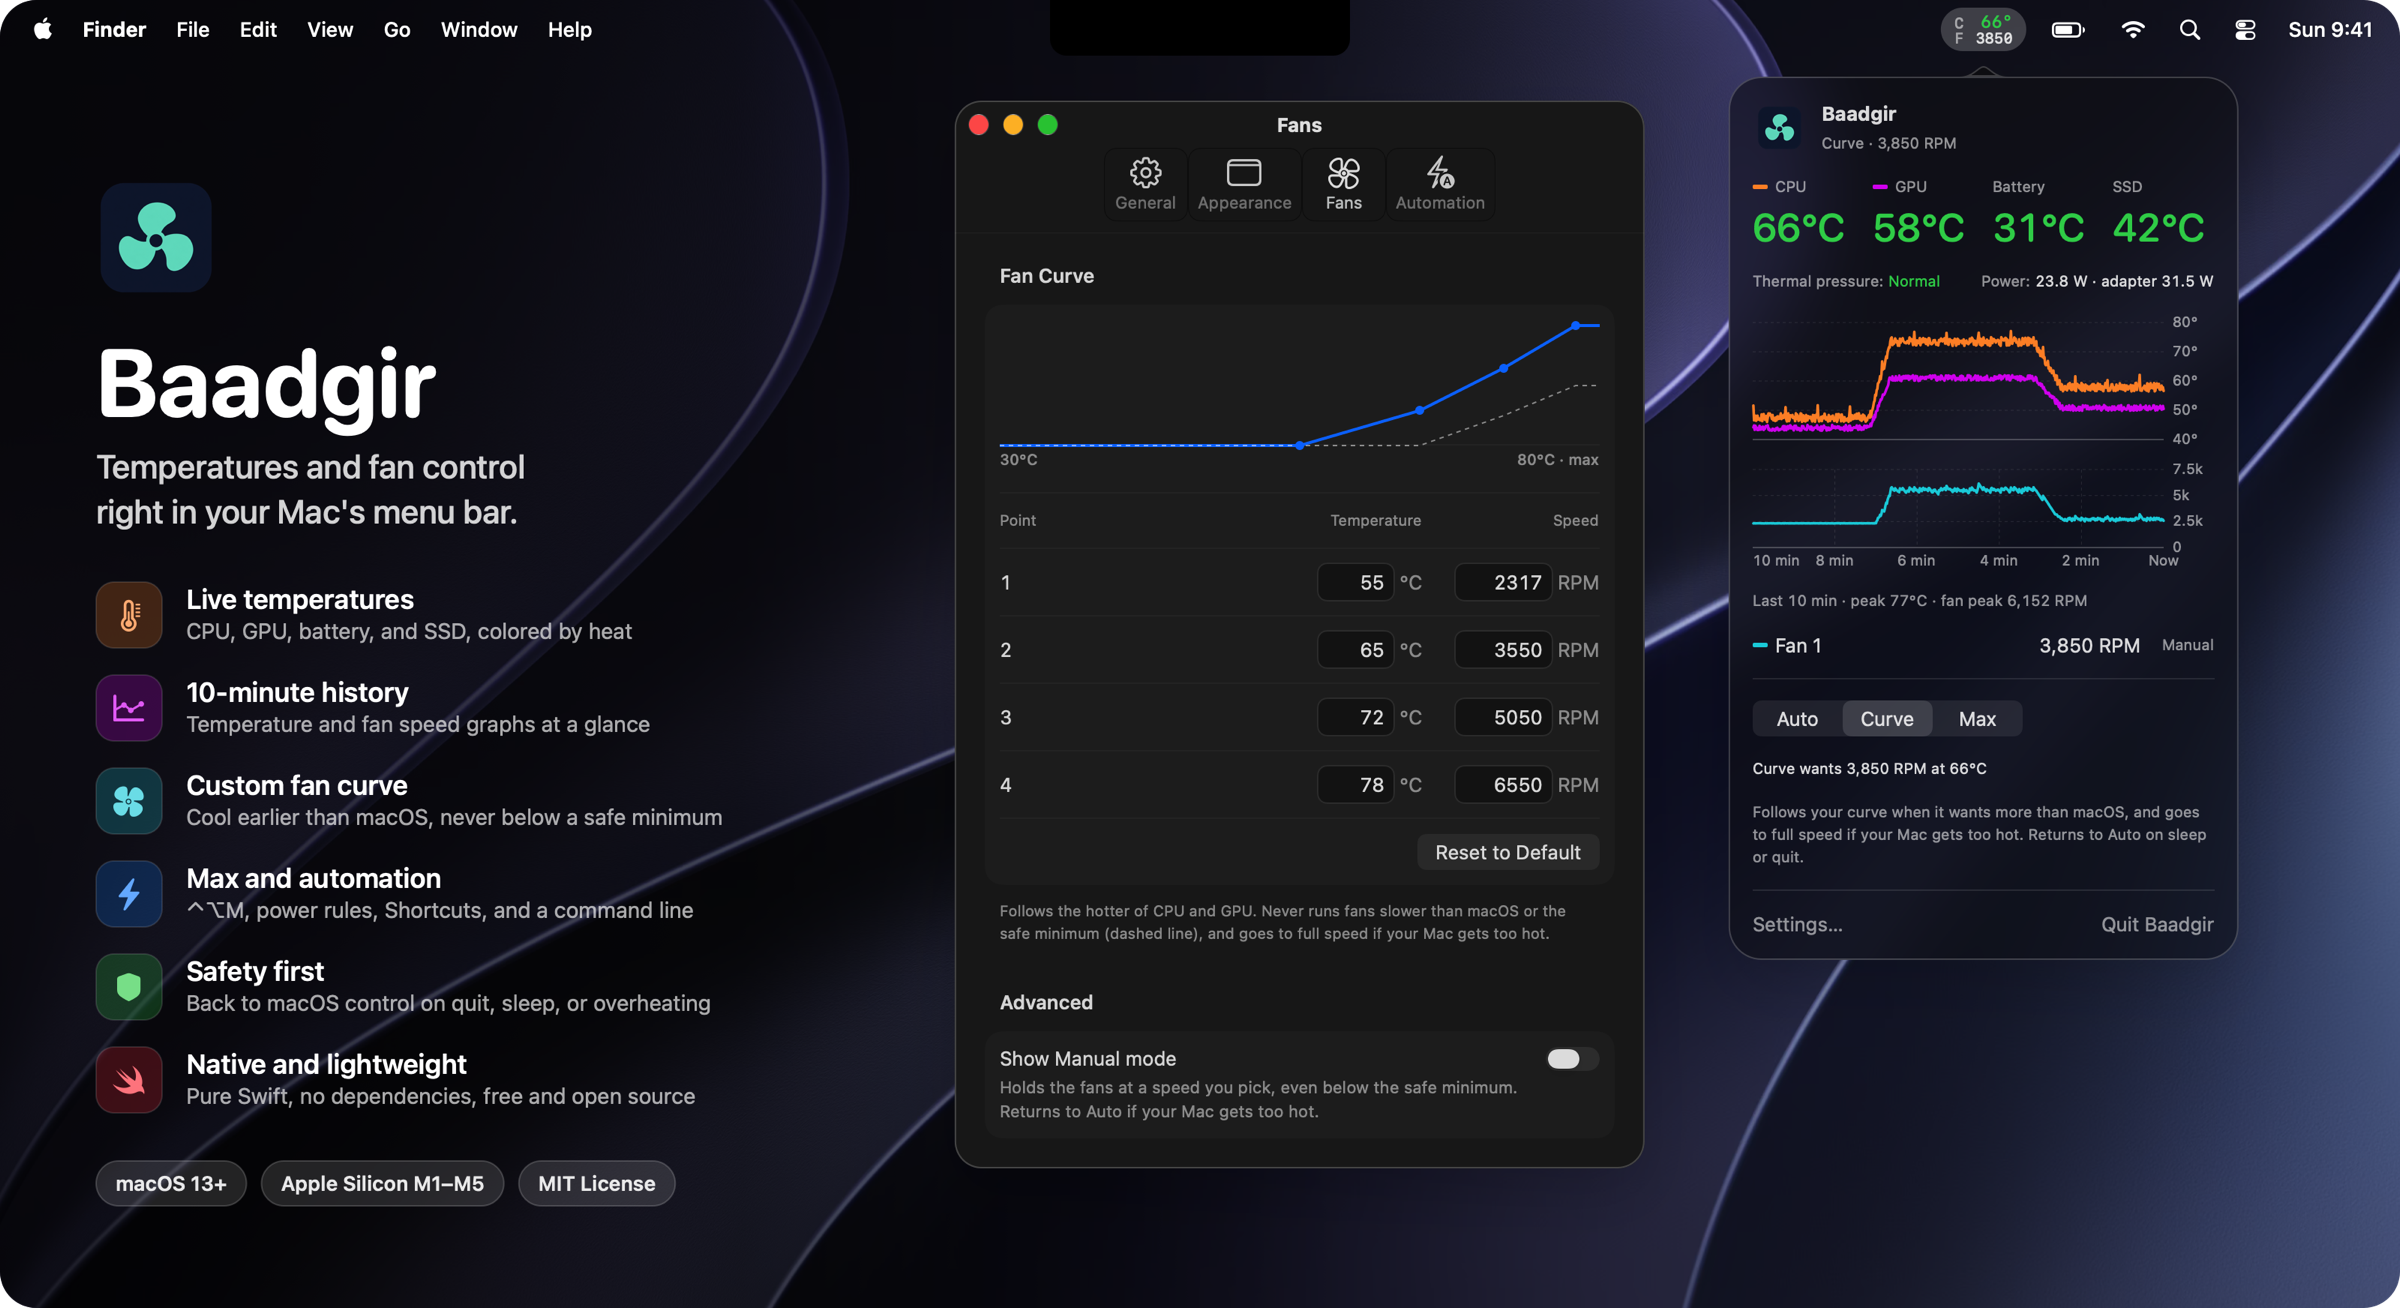
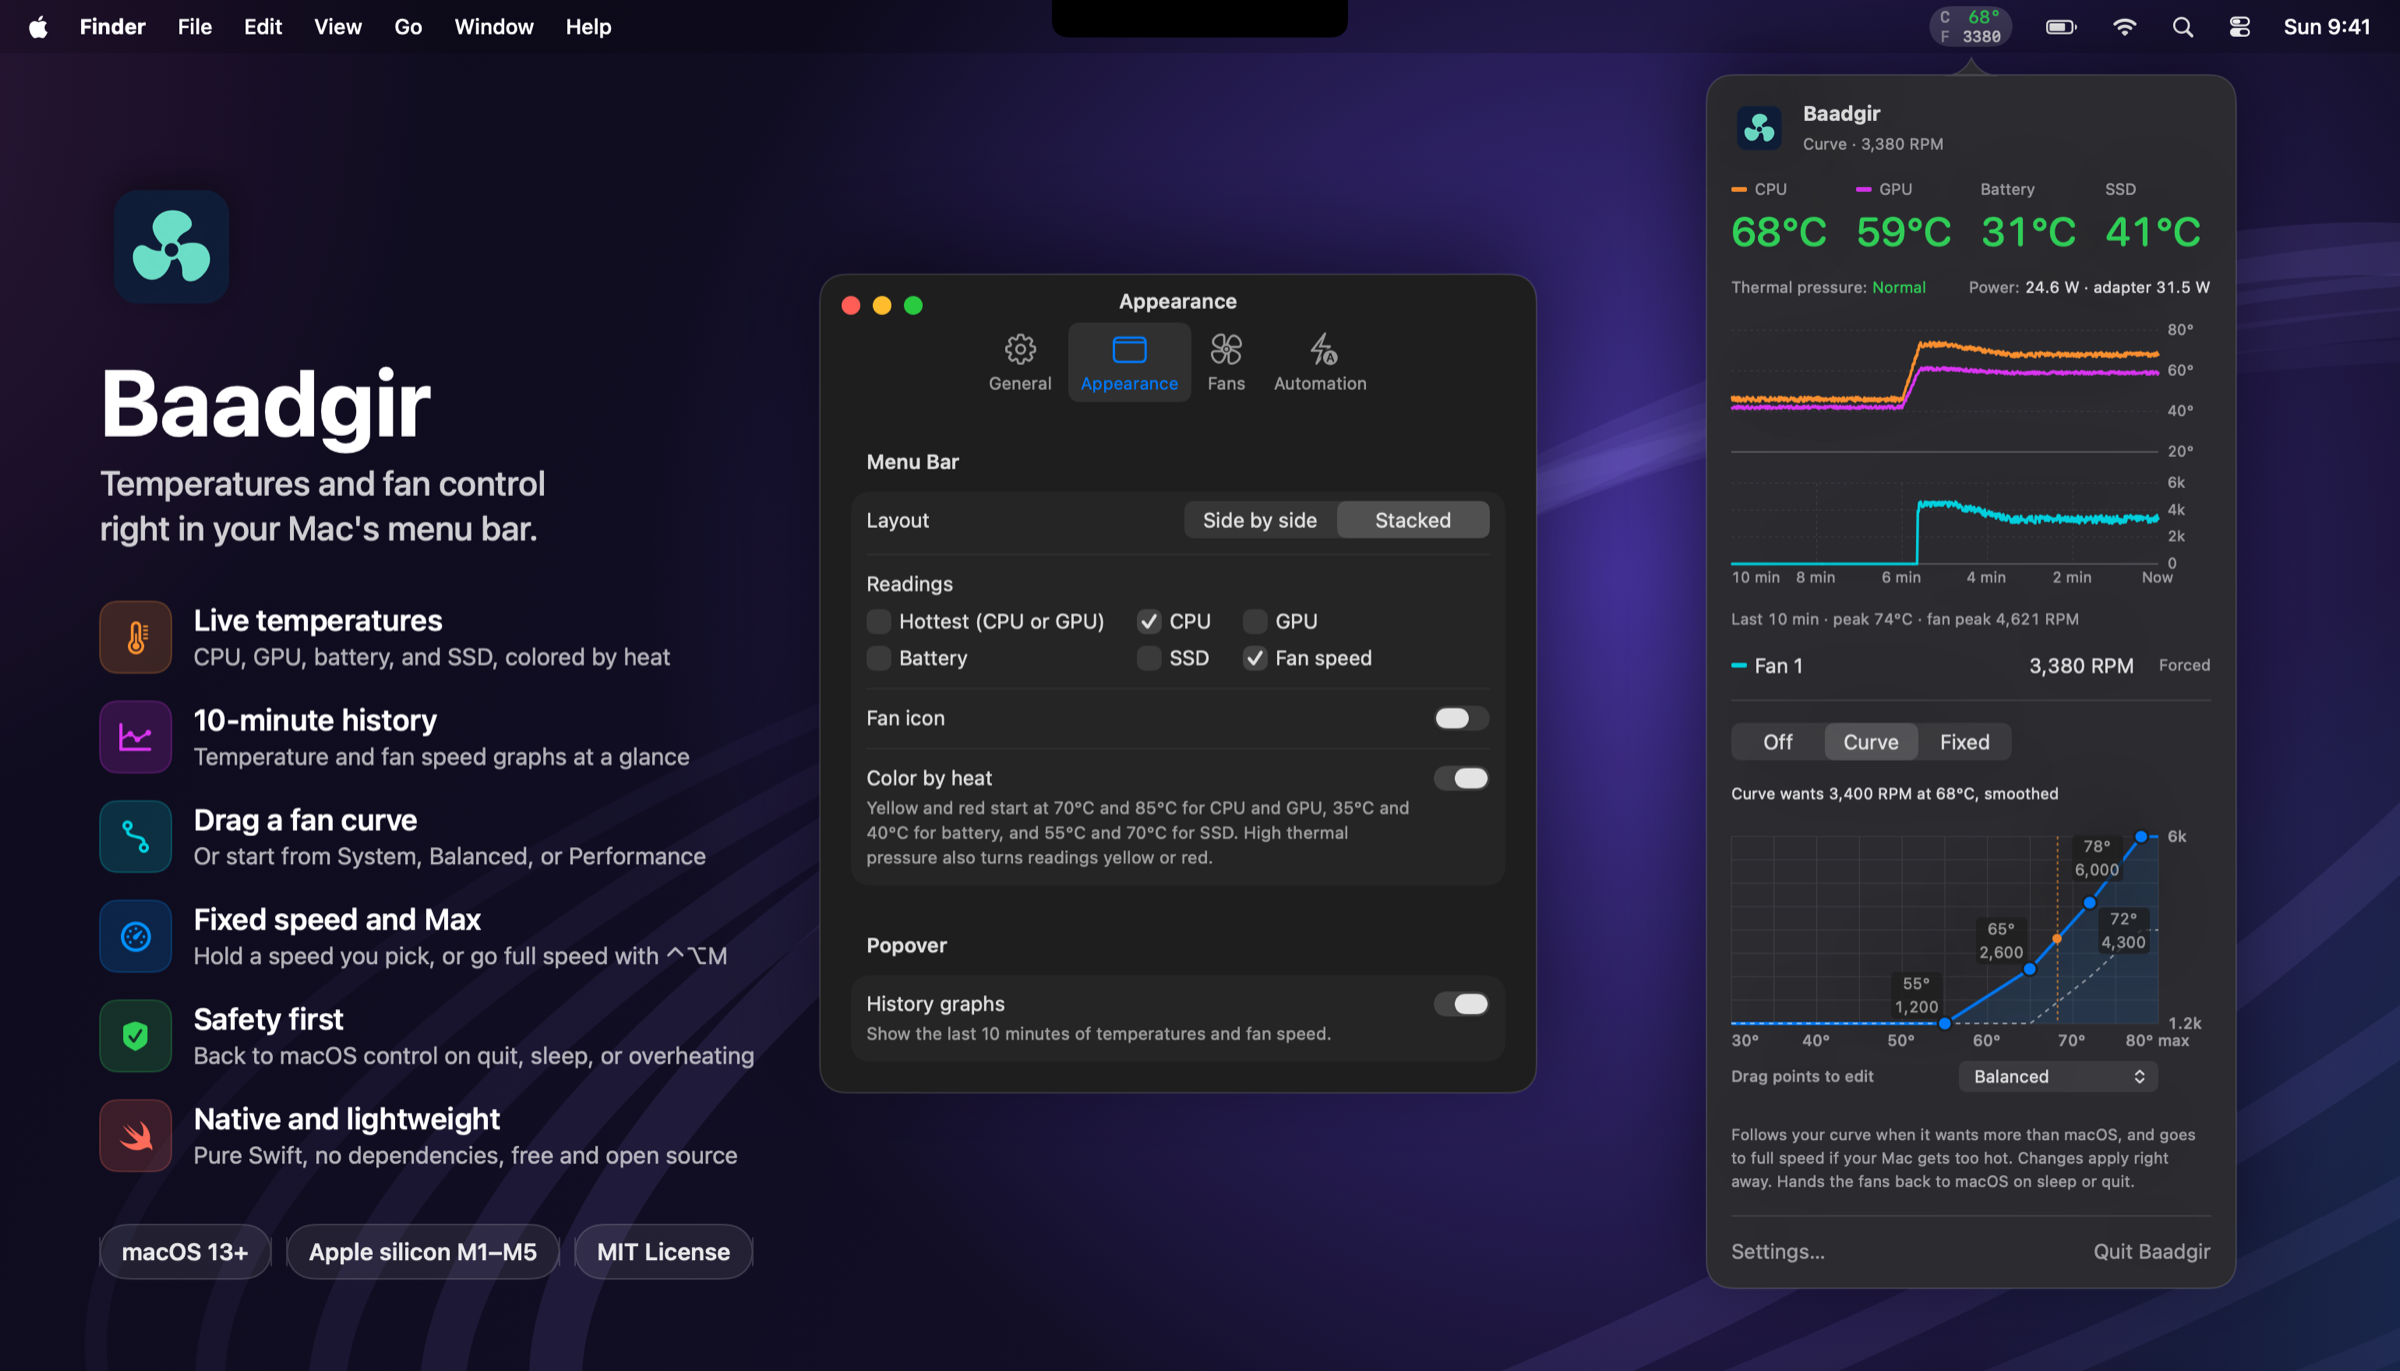
docs(readme): redraw the cover and update the text for off, curve and fixed
The cover is rendered from the app's current views with demo readings:
stacked readings in the menu bar, the popover in Curve with the draggable
Balanced curve, and the Settings window's Appearance page, over a drawn
backdrop instead of a system wallpaper.

The readme uses the Off, Curve, Fixed and Max names, the off and fixed
links and commands, the curve presets, and Max's move out of the popover.

diff --git a/readme.md b/readme.md
@@ -13,18 +13,19 @@ See CPU, GPU, battery and SSD temperatures at a glance, and take control of your
 </div>
 
 <p align="center">
-  <img src="assets/cover.png" alt="Baadgir on a Mac: CPU temperature and fan speed in the menu bar, the popover with CPU, GPU, battery and SSD temperatures, 10-minute temperature and fan graphs and Auto, Curve and Max modes, and the Settings window with the custom fan curve editor, next to a list of features">
+  <img src="assets/cover.png" alt="Baadgir on a Mac: CPU temperature and fan speed stacked in the menu bar, the popover with CPU, GPU, battery and SSD temperatures, 10-minute temperature and fan graphs, the Off, Curve and Fixed switch and a draggable fan curve set to Balanced, and the Settings window's Appearance page, next to a list of features">
 </p>
 
 ## Why Baadgir?
 
 macOS keeps the fans quiet until your Mac is already hot. That's fine for email, but during a long export, build or game your MacBook Pro can throttle before the fans catch up. Baadgir lets you cool it down earlier, and hands control back to macOS when you're done.
 
-- 🌡 **Live temperatures in the menu bar.** CPU, GPU, battery and SSD readings, colored green, yellow or red, plus fan RPM, power draw and thermal pressure.
+- 🌡 **Live temperatures in the menu bar.** CPU, GPU, battery and SSD readings and fan RPM, side by side or stacked, colored green, yellow or red. The popover adds power draw and thermal pressure.
 - 📈 **10-minute history graphs** of temperature and fan speed, right in the popover.
-- 🌀 **Custom fan curve.** Set four temperature → RPM points. Baadgir only speeds the fans up, never below the speed macOS was running when Curve took over, and enforces a safe minimum.
-- 🚀 **One-click Max.** Full fan speed from the popover, the right-click menu, or <kbd>⌃</kbd><kbd>⌥</kbd><kbd>M</kbd> from any app.
-- ⚡ **Automation.** Switch to Curve or Max when you plug in, back to Auto on battery. Also works with Shortcuts, `baadgir://` links and a command-line tool.
+- 🌀 **Custom fan curve.** Drag four temperature → RPM points right in the popover, or start from the System, Balanced or Performance preset. Baadgir only speeds the fans up, never below the speed macOS was running when Curve took over, and enforces a safe minimum.
+- 🎚 **Fixed speed.** Hold the fans at a speed you pick with a slider, within limits you set.
+- 🚀 **One-key Max.** Full fan speed from the right-click menu, or <kbd>⌃</kbd><kbd>⌥</kbd><kbd>M</kbd> from any app.
+- ⚡ **Automation.** Switch to Curve or Max when you plug in, and turn fan control off on battery. Also works with Shortcuts, `baadgir://` links and a command-line tool.
 - 🛡 **Safety first.** Fans go back to macOS automatic control on quit, sleep, a crash, overheating or a sensor failure.
 - 🔒 **Private and lightweight.** Native Swift and SwiftUI with no dependencies, no network access, no analytics and no logs.
 
@@ -32,10 +33,12 @@ macOS keeps the fans quiet until your Mac is already hot. That's fine for email,
 
 | Mode | What it does |
 | --- | --- |
-| **Auto** | macOS controls the fans, as usual. |
+| **Off** | macOS controls the fans, as usual. |
 | **Curve** | Your temperature → RPM curve, used only when it wants more cooling than macOS. |
-| **Max** | Fans at full speed until you choose Auto. |
-| **Manual** | A fixed speed you pick. Hidden behind Settings → Fans → Advanced. |
+| **Fixed** | A speed you pick with the slider, within the limits in Settings → Fans. |
+| **Max** | Fans at full speed until you choose another mode. Start it from the right-click menu or <kbd>⌃</kbd><kbd>⌥</kbd><kbd>M</kbd>; it shows in the popover's switch while it runs. |
+
+Off, Curve and Fixed sit in the popover's switch. The mode you pick stays on until you choose Off, and starts again when Baadgir opens.
 
 ## Install
 
@@ -54,15 +57,15 @@ This builds the app, installs a small root-owned fan-control helper, and copies 
 <details>
 <summary><b>Shortcuts, links and command line</b></summary>
 
-Turn on Settings → Automation → Shortcuts, links, and command line first. It's off by default because any app or web page can open a link. Baadgir still asks for confirmation before it starts cooling or sets a manual speed.
+Turn on Settings → Automation → Shortcuts, links, and command line first. It's off by default because any app or web page can open a link. Baadgir still asks for confirmation before it starts cooling or sets a fixed speed.
 
-- **Shortcuts:** add an *Open URLs* action with `baadgir://auto`, `baadgir://curve`, `baadgir://max` or `baadgir://manual?rpm=3000`.
+- **Shortcuts:** add an *Open URLs* action with `baadgir://off`, `baadgir://curve`, `baadgir://max` or `baadgir://fixed?rpm=3000`. The older `auto` and `manual` names still work.
 - **Terminal:**
 
   ```sh
   ln -s /Applications/Baadgir.app/Contents/MacOS/baadgir /usr/local/bin/baadgir
   baadgir status        # read-only readings
-  baadgir max           # or auto, curve, manual 3000
+  baadgir max           # or off, curve, fixed 3000
   ```
 
 </details>
@@ -70,7 +73,7 @@ Turn on Settings → Automation → Shortcuts, links, and command line first. It
 <details>
 <summary><b>Uninstall</b></summary>
 
-Choose Auto, quit Baadgir, delete the app, then run:
+Choose Off, quit Baadgir, delete the app, then run:
 
 ```sh
 sudo rm -f /Library/PrivilegedHelperTools/local.baadgir.helper /var/db/local.baadgir.lock /etc/sudoers.d/baadgir
@@ -86,10 +89,10 @@ sudo rm -f /Library/PrivilegedHelperTools/local.baadgir.helper /var/db/local.baa
 <details>
 <summary><b>How Baadgir keeps your Mac safe</b></summary>
 
-- **Curve** never runs below a safe minimum for the current temperature (the fans' minimum up to 65°C, a quarter of their range at 72°C, half at 78°C). It switches to full speed at 80°C CPU/GPU, a 45°C battery, a 70°C SSD or high thermal pressure, and returns to Auto once macOS's own speed is enough. While Curve holds the fans, macOS's live choice can't be read, so Curve won't follow a rise macOS would make for sensors Baadgir doesn't watch; the safe minimum and these cutoffs cover that.
-- **Manual** only starts below 75°C, never goes under 1000 RPM, and returns to Auto at 80°C, a hot battery or SSD, high thermal pressure or a sensor failure.
+- **Curve** never runs below a safe minimum for the current temperature (the fans' minimum up to 65°C, a quarter of their range at 72°C, half at 78°C). It switches to full speed at 80°C CPU/GPU, a 45°C battery, a 70°C SSD or high thermal pressure, and hands the fans back to macOS once macOS's own speed is enough. It follows a smoothed temperature so the fans don't hunt, but the safe minimum and cutoffs use the raw readings. While Curve holds the fans, macOS's live choice can't be read, so Curve won't follow a rise macOS would make for sensors Baadgir doesn't watch; the safe minimum and these cutoffs cover that.
+- **Fixed** can run below Curve's safe minimum. It only starts below 75°C, never goes under 1000 RPM, and turns fan control off at 80°C, a hot battery or SSD, high thermal pressure or a sensor failure.
 - **Max** has no cutoff because it never lowers fan speed.
-- **Watchdogs:** the root helper restores Auto if the app stops responding for 10 seconds, and a separate watchdog restores Auto if the helper itself stalls for 15 seconds.
+- **Watchdogs:** the root helper hands the fans back to macOS if the app stops responding for 10 seconds, and a separate watchdog does the same if the helper itself stalls for 15 seconds.
 - **Least privilege:** only a root-owned helper runs as root, never the app bundle, and the app checks that helper before starting it. The sudo rule covers only that helper, so any app running as you can start it without a password, but only within the limits above. Apple's thermal services are never disabled.
 
 These are conservative software limits, not certified safety limits. If automatic control can't be restored, restart your Mac. Don't run other fan-control apps at the same time.
@@ -100,9 +103,9 @@ These are conservative software limits, not certified safety limits. If automati
 
 **Is Baadgir free?** Yes. It's open source under the MIT license.
 
-**Does it work on M4 and M5 Macs?** Yes, M1 through M5 are supported. A newer chip still shows temperatures and offers Auto and Max until its sensors are added.
+**Does it work on M4 and M5 Macs?** Yes, M1 through M5 are supported. A newer chip still shows temperatures and offers Off and Max until its sensors are added.
 
-**Will it drain my battery?** Baadgir is a small native app that reads sensors once a second. The helper runs only while you use Curve, Max or Manual, and you can make it return to Auto on battery.
+**Will it drain my battery?** Baadgir is a small native app that reads sensors once a second. The helper runs only while you use Curve, Fixed or Max, and you can turn fan control off on battery.
 
 **Why the name?** *Baadgir* (بادگیر) means "windcatcher": the Persian towers that have cooled buildings by catching the wind for centuries.
 
